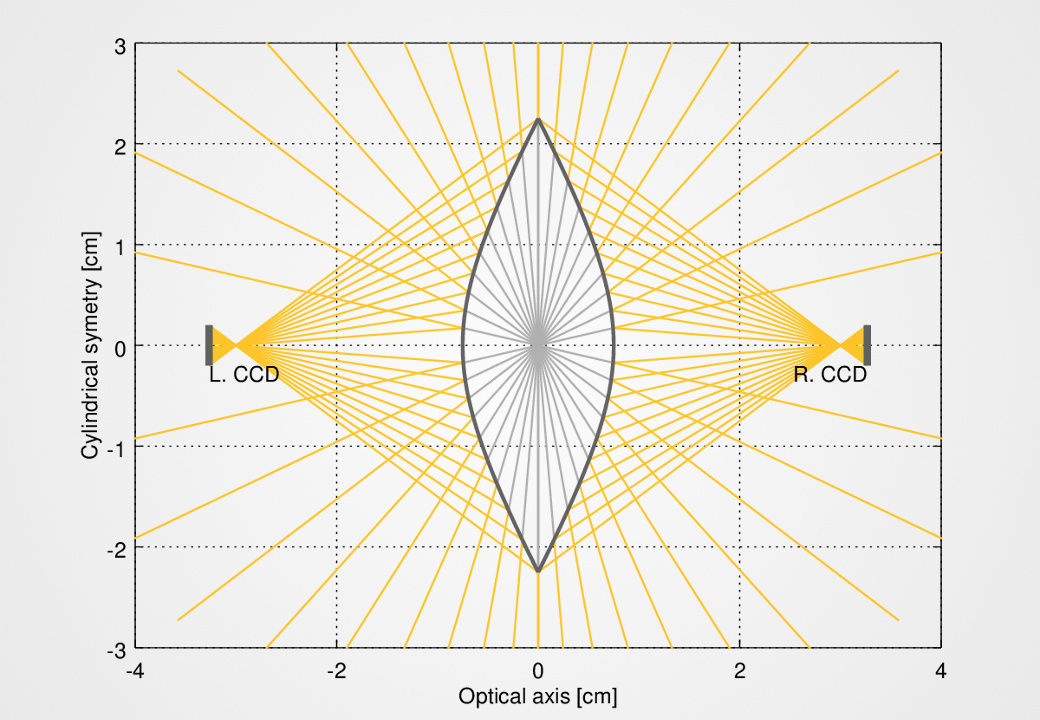
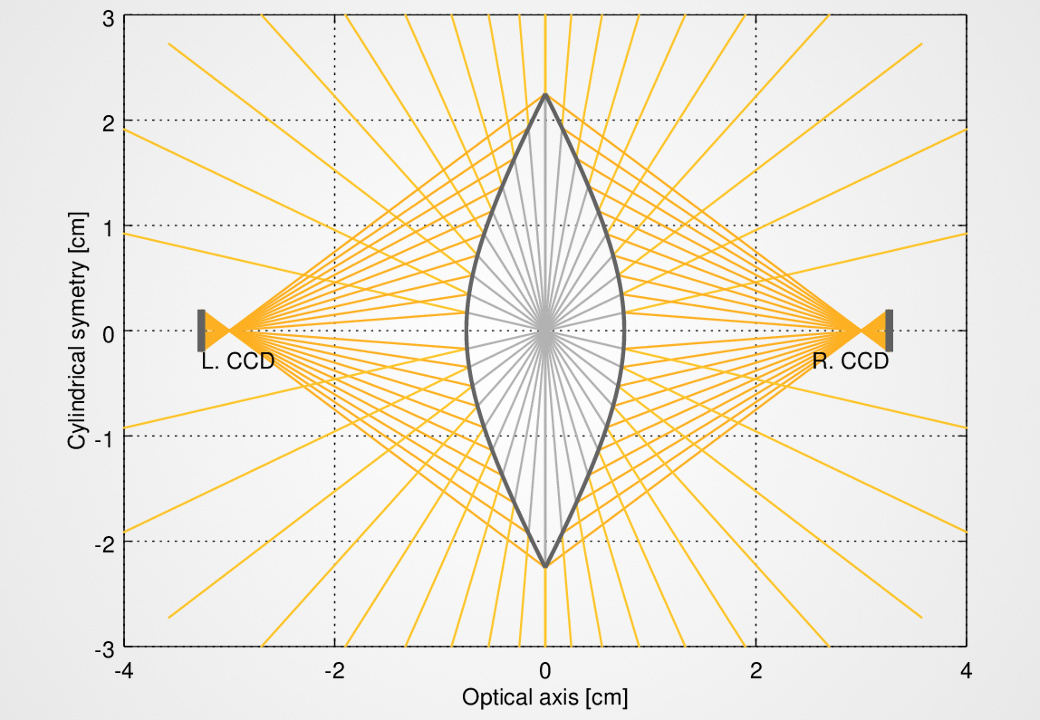
Adding plot creation function for final iteration and illustration images corrections

diff --git a/src/algorithm/algorithm_plot_scene.m b/src/algorithm/algorithm_plot_scene.m
@@ -1,0 +1,68 @@
+
+    function algorithm_plot_scene( sc_da, sc_ra, sc_db, sc_rb, sc_r, sc_t, sc_output )
+
+        % transform direction %
+        sc_da = algorithm_rotate( sc_da, sc_r );
+
+        % compute last iteration features %
+        sc_fa = algorithm_features( sc_ra, sc_da );
+
+        % tranform center %
+        sc_fa(:,1) = sc_fa(:,1) + sc_t(1);
+        sc_fa(:,2) = sc_fa(:,2) + sc_t(2);
+        sc_fa(:,3) = sc_fa(:,3) + sc_t(3);
+
+        % compute last iteration features %
+        sc_fb = algorithm_features( sc_rb, sc_db );
+
+        % create figure %
+        figure;
+
+        % figrue configuration %
+        hold on;
+        grid on;
+        box  on;
+
+        % display points %
+        plot3( sc_fb(:,1), sc_fb(:,2), sc_fb(:,3), 'o', 'color', [ 255 178 36 ] / 255 );
+
+        % display points %
+        plot3( sc_fa(:,1), sc_fa(:,2), sc_fa(:,3), 'x', 'color', [ 255 178 36 ] / 255 );
+
+        % parsing features %
+        for sc_i = 1 : size( sc_da, 1 )
+
+            % display direction %
+            plot3( [ 0, sc_fb(sc_i,1) ], [ 0, sc_fb(sc_i,2) ], [ 0, sc_fb(sc_i,3) ], '-', 'color', [ 0.7, 0.7, 0.7 ], 'linewidth', 1 );
+
+            % display direction %
+            plot3( [ sc_t(1), sc_fa(sc_i,1) ], [ sc_t(2), sc_fa(sc_i,2) ], [ sc_t(3), sc_fa(sc_i,3) ], '-', 'color', [ 0.7, 0.7, 0.7 ], 'linewidth', 1 );
+
+        end
+
+        % display epipolar line %
+        plot3( [ 0, sc_t(1) ], [ 0, sc_t(2) ], [ 0, sc_t(3) ], '-r', 'color', [ 255 187 61 ] / 255, 'linewidth', 2 );
+
+        % display camera center %
+        plot3( 0, 0, 0, 'o', 'color', [ 255 178 36 ] / 255 );
+
+        % display camera center %
+        plot3( sc_t(1), sc_t(2), sc_t(3), 'x', 'color', [ 255 178 36 ] / 255 );
+
+        % axis configuration %
+        xlabel( 'x' );
+        ylabel( 'y' );
+        zlabel( 'z' );
+
+        axis( 'equal' );
+
+        % ratio configuration %
+        daspect( [ 1 1 1 ] );
+
+        % view configuration %
+        view( [ 70 20 ] );
+
+        % export %
+        print( '-dpng', '-r300', sc_output );
+
+    end

diff --git a/src/algorithm/algorithm_scene.m b/src/algorithm/algorithm_scene.m
@@ -1,5 +1,5 @@
 
-    function sc_scene = algorithm_scene( sc_center, sc_radius, sc_number )
+    function sc_scene = algorithm_scene( sc_center, sc_radius, sc_number, sc_hollow )
 
         % memory management %
         sc_param = zeros( sc_number, 4 );
@@ -12,8 +12,16 @@
         sc_param(:,3) = randn( sc_number, 1 );
         sc_param(:,4) = randn( sc_number, 1 );
 
-        % compute distribution factor %
-        sc_norm = ( sc_radius * sc_param(:,1) .^ ( 1./3. ) ) ./ sqrt( sc_param(:,2) .* sc_param(:,2) + sc_param(:,3) .* sc_param(:,3) + sc_param(:,4) .* sc_param(:,4) );
+        % compute radial factor %
+        sc_norm = sc_radius ./ sqrt( sc_param(:,2) .* sc_param(:,2) + sc_param(:,3) .* sc_param(:,3) + sc_param(:,4) .* sc_param(:,4) );
+
+        % check hollow condition %
+        if ( sc_hollow == false )
+
+            % apply correction %
+            sc_norm = ( sc_param(:,1) .^ ( 1./3. ) ) .* sc_norm;
+
+        end
 
         % memory management %
         sc_scene = zeros( sc_number, 3 );

diff --git a/src/algorithm/algorithm_test.m b/src/algorithm/algorithm_test.m
@@ -2,7 +2,7 @@
     function algorithm_test()
 
         % create scene %
-        sc_scene = algorithm_scene( zeros(1,3), 10, 100 );
+        sc_scene = algorithm_scene( zeros(1,3), 10, 20, false );
 
         % create camera center %
         sc_camac = ( rand(1,3) - 0.5 ) * 10;
@@ -17,7 +17,7 @@
         sc_cambd = algorithm_project( sc_cambc, sc_cambr, sc_scene );
 
         % compute camera pose %
-        [ sc_r, sc_t ] = algorithm_pose( sc_camad, sc_cambd, 1e-8 )
+        [ sc_r, sc_t, sc_ra, sc_rb ] = algorithm_pose( sc_camad, sc_cambd, 1e-8 );
 
         % true rotation %
         sc_r_ = sc_cambr * sc_camar'
@@ -33,5 +33,8 @@
 
         % display results %
         printf( 'error on rotation : %g and translation : %g\n', sc_r_err, sc_t_err );
+
+        % display configuration %
+        algorithm_plot_scene( sc_camad, sc_ra, sc_cambd, sc_rb, sc_r, sc_t, './test.png' );
 
     end

diff --git a/src/algorithm/algorithm_pose.m b/src/algorithm/algorithm_pose.m
@@ -1,5 +1,5 @@
 
-    function [ sc_r, sc_t ] = algorithm_pose( sc_da, sc_db, sc_tol )
+    function [ sc_r, sc_t, sc_ra, sc_rb ] = algorithm_pose( sc_da, sc_db, sc_tol )
 
         % initialise radii %
         sc_ra = ones( size( sc_da, 1 ), 1 );
@@ -11,6 +11,9 @@
         % iteration condition %
         sc_icc = +0.0;
         sc_icp = -1.0;
+
+        % iteration counter %
+        sc_iter = 1;
 
         % pose estimation %
         while ( sc_flag == true )
@@ -47,7 +50,10 @@
             end
 
             % display information %
-            fprintf( 2, 'Iteration with %g remaining\n', sc_icc );
+            fprintf( 2, 'Iteration %i with %g remaining\n', sc_iter, sc_icc );
+
+            % update iteration counter %
+            sc_iter = sc_iter + 1;
 
         end
 

diff --git a/src/camera/camera_draw.m b/src/camera/camera_draw.m
@@ -91,7 +91,7 @@
                 s_y = -sc_h * tan( l );
 
                 % display reflected ray %
-                plot( [ sc_raymira_x(i), s_x ], [ sc_raymira_y(i), s_y ], '-', 'Color', [ 255 199 44 ] / 255, 'LineWidth', 1 );
+                plot( [ sc_raymira_x(i), s_x ], [ sc_raymira_y(i), s_y ], '-', 'Color', [ 255 178 36 ] / 255, 'LineWidth', 1 );
 
             end
 
@@ -112,7 +112,7 @@
                 s_y = -sc_h * tan( l );
 
                 % display reflected ray %
-                plot( [ sc_raymirb_x(i), s_x ], [ sc_raymirb_y(i), s_y ], '-', 'Color', [ 255 199 44 ] / 255, 'LineWidth', 1 );
+                plot( [ sc_raymirb_x(i), s_x ], [ sc_raymirb_y(i), s_y ], '-', 'Color', [ 255 178 36 ] / 255, 'LineWidth', 1 );
 
             end
 
